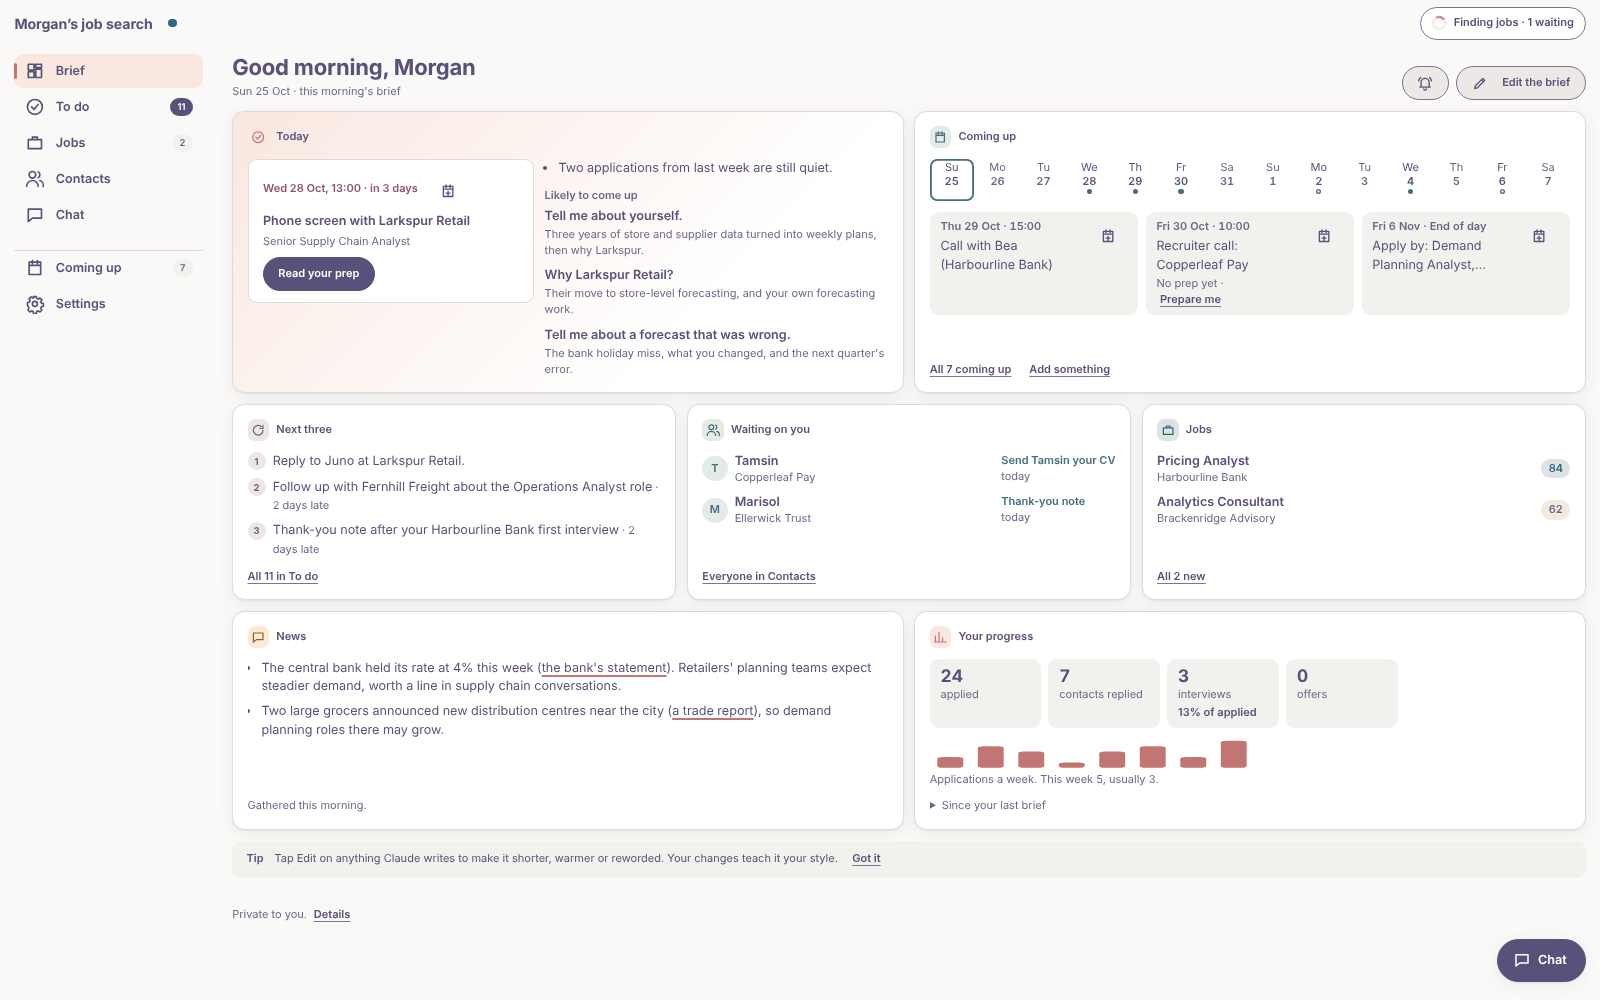
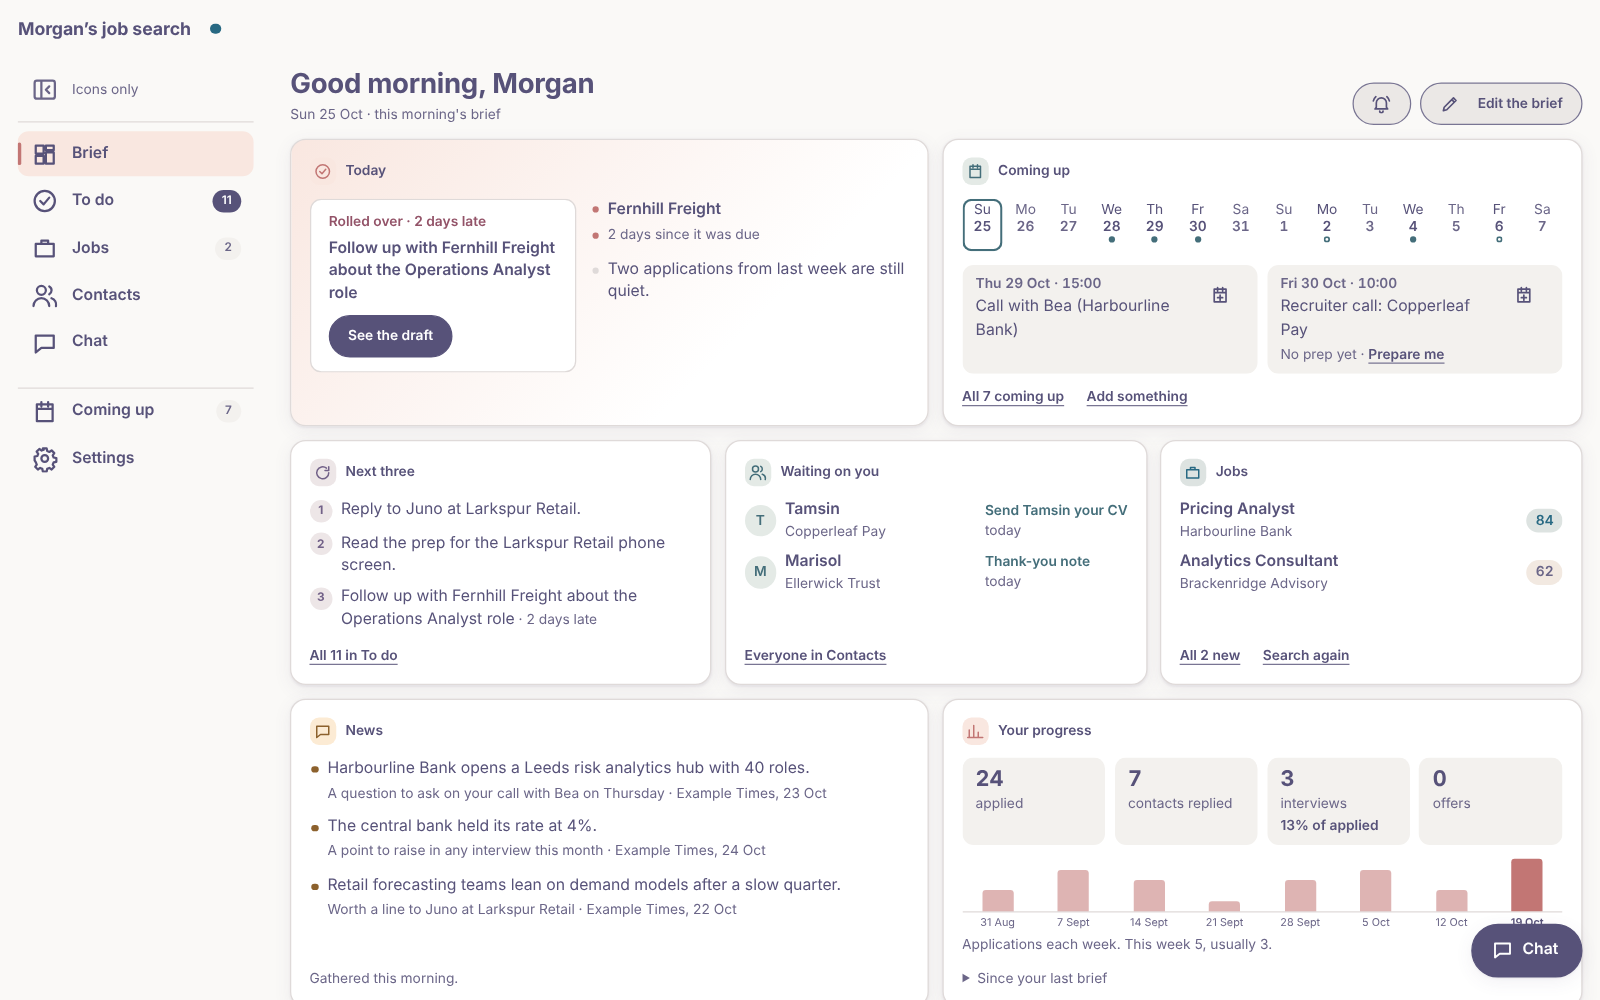
README pictures as this version draws them: the Brief, Contacts in dark mode, Coming up on a phone, and the tour
Claude-Session: https://claude.ai/code/session_019nr4JpCWu7S1xFvkRjRX1e

diff --git a/README.md b/README.md
@@ -9,7 +9,7 @@ private page. It never sends anything for you.
 
 <p align="center">
   <img src="docs/images/page-brief.png" width="720"
-       alt="The Brief: today's interview, the next three things to do, who is waiting on you, the best new jobs, news and your numbers">
+       alt="The Brief: today's most pressing thing with what matters about it, the next three things to do, who is waiting on you, the best new jobs, news with what to do with each item, and your numbers by week">
   <br>
   <sub><b>The Brief</b>: your day at a glance</sub>
 </p>
